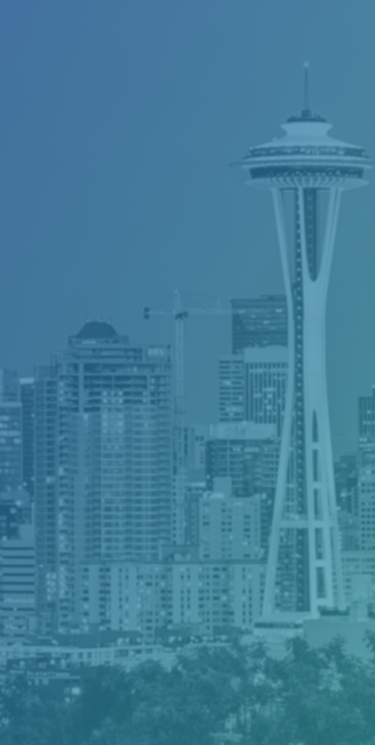
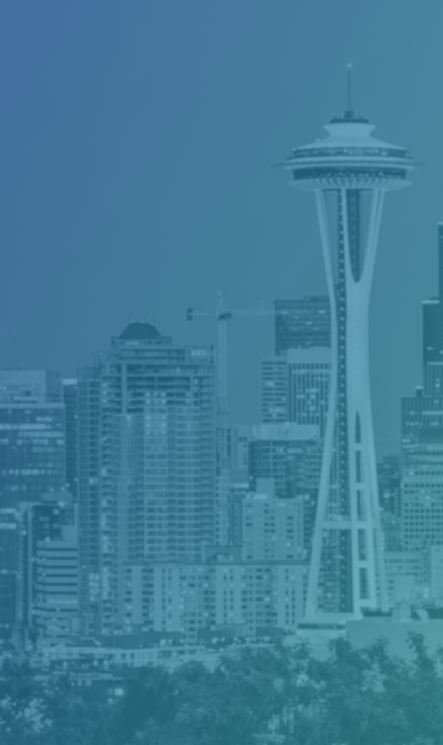
Turning off mixpanel for testing. Removing bakground images from mobile view.

diff --git a/css/landio.css b/css/landio.css
@@ -201,13 +201,13 @@ input:focus {outline: none;}
 
 @media (max-width: 768px) {
 	.jumbotron {
-		background: url(../img/dot_grid_pattern.svg) repeat fixed, #663fb5 url(../img/sm-header4.png) no-repeat center top fixed;
+		background: #663fb5;
 	}
 
 	#team {
 		padding-top: 90px;
 		padding-bottom: 90px;
-		background: url(../img/dot_grid_pattern.svg) repeat fixed, #663fb5 url(../img/sm-mission-banner.png) no-repeat center top fixed;
+		background: #663fb5;
 	}
 
 	#title {

diff --git a/js/script.js b/js/script.js
@@ -23,7 +23,7 @@ window.onload = function () {
    }
    
    $hero_submit_button.click(submitEmail);
-   mixpanelEventListeners();
+   //mixpanelEventListeners();
    initEventListeners();
    
 };
